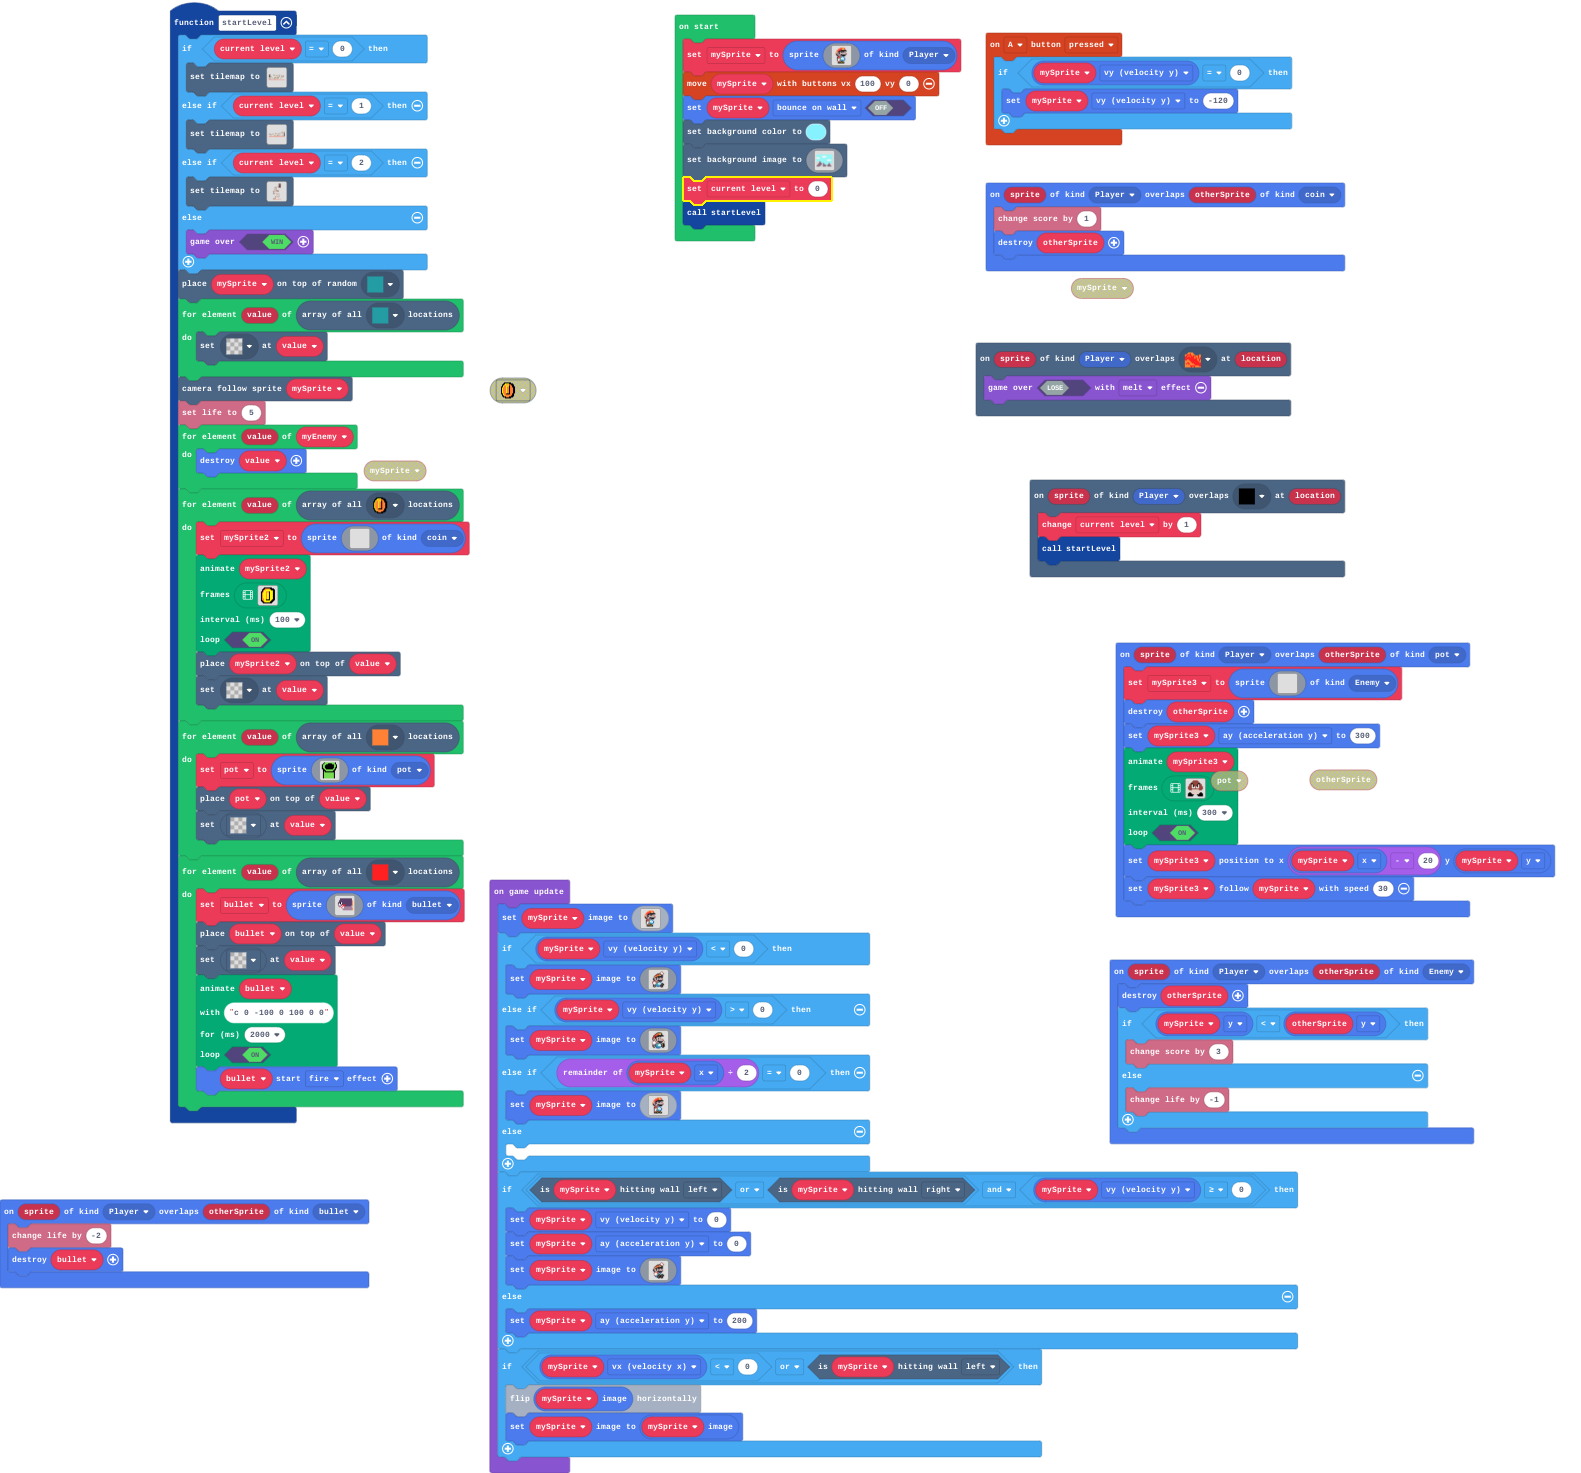
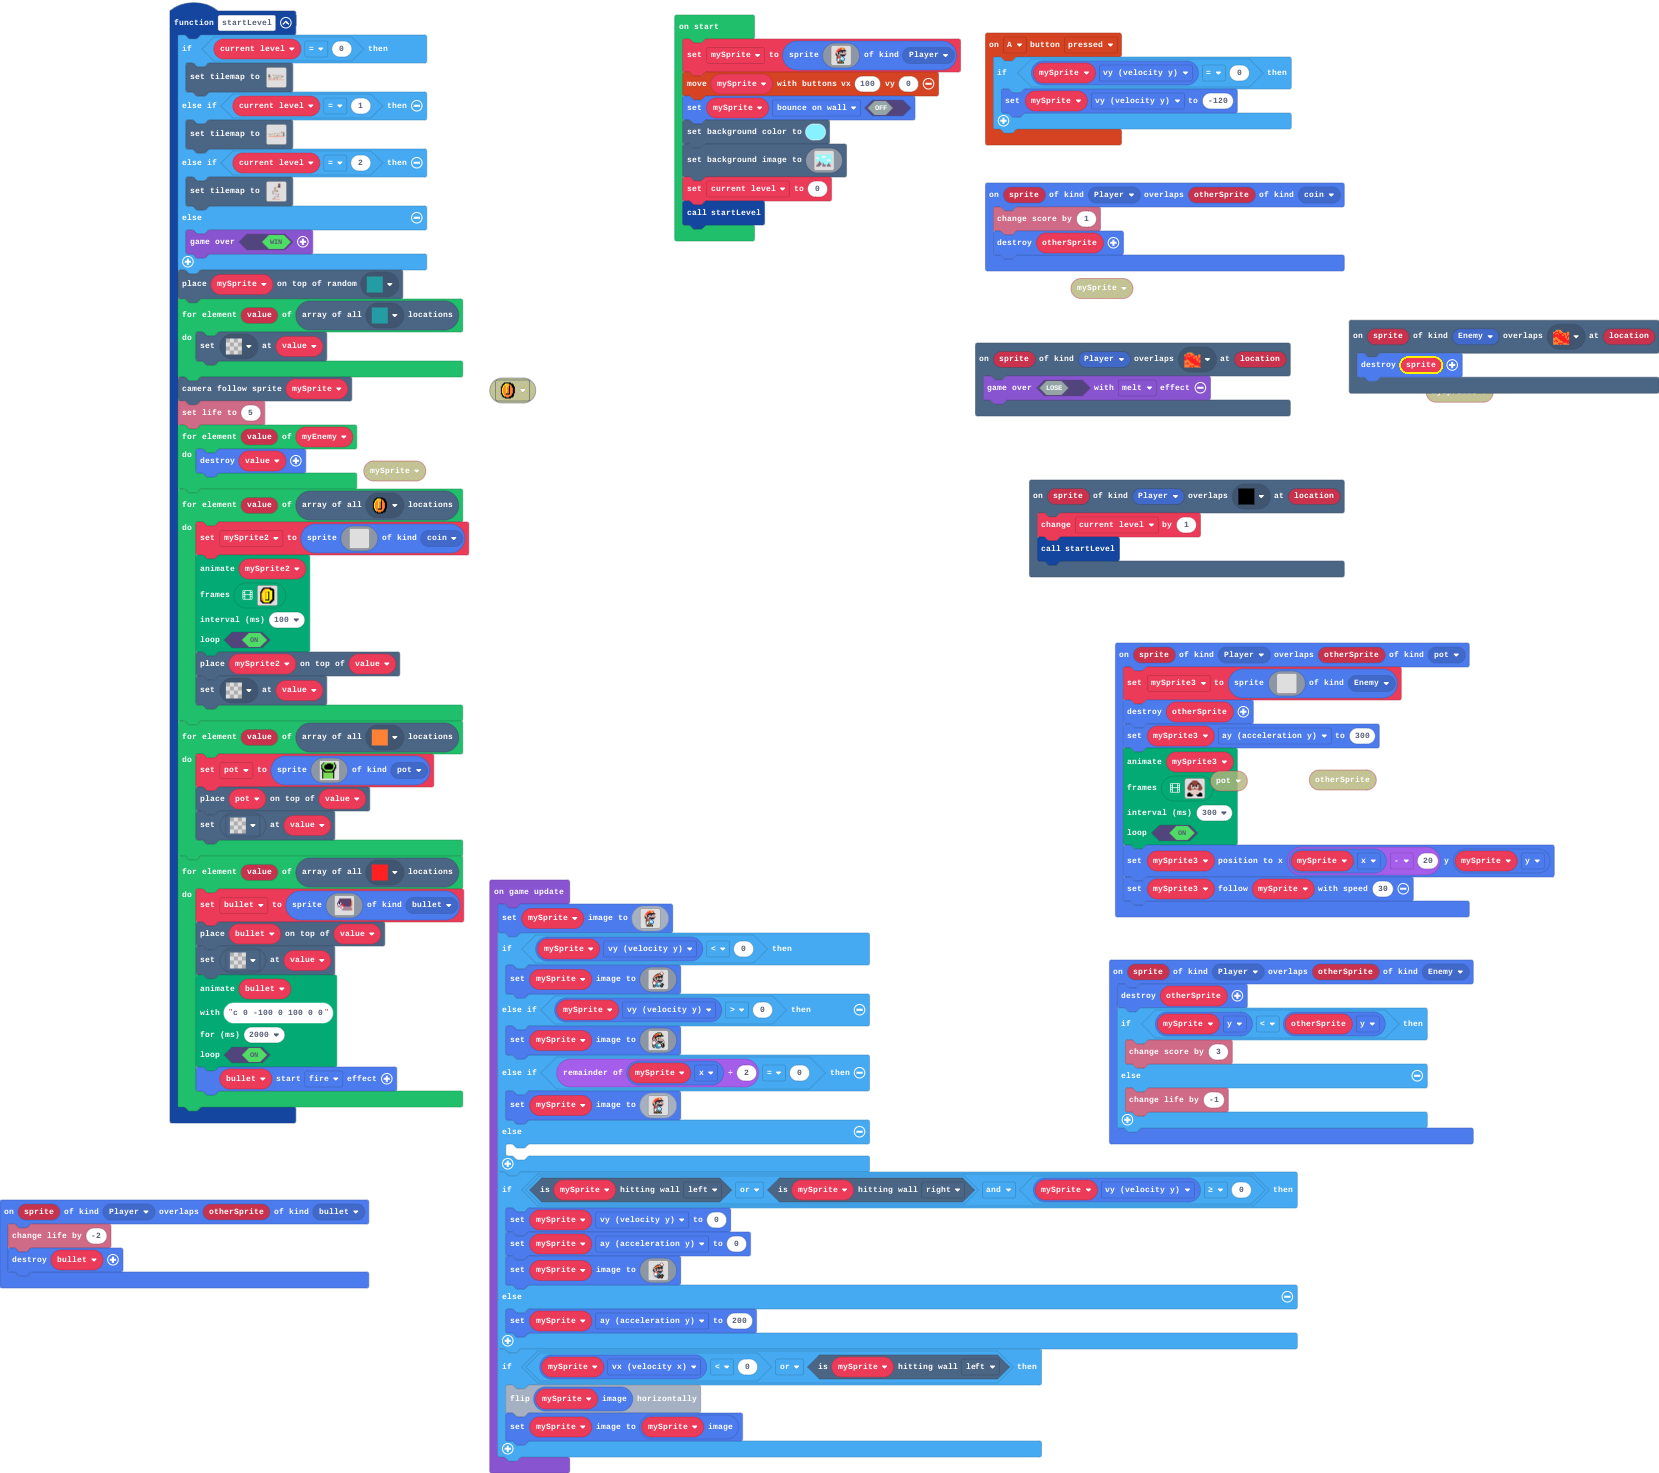
Update main.blocks, main.ts, tilemap.g.jres, tilemap.g.ts, images.g.jres, images.g.ts

diff --git a/tilemap.g.ts b/tilemap.g.ts
@@ -50,26 +50,6 @@ namespace myTiles {
 . . . . . . . . . . . . . . . . 
 . . . . . . . . . . . . . . . . 
 `, [myTiles.transparency16], TileScale.Sixteen);
-            case "level1":
[1 lines of base64/hex data omitted]
-22222.............................................
-22222.............................................
-22222........2222222.........222222...............
-22222.................22222...........2222........
-22222........................................22...
-2...........................................22....
-2...............................2.2........22.....
-2......................................2222222....
-22222222................2222222...................
-..................22222.......22..................
-................222...............................
-..........22.......................22.2...........
-........................222222....................
-2222222........222222.............................
-..................................................
-..................................................
-..................................................
-`, [myTiles.transparency16,myTiles.tile1,myTiles.tile2,myTiles.tile4,myTiles.tile5,myTiles.tile6,myTiles.tile7,myTiles.tile8,myTiles.tile10,myTiles.tile11,myTiles.tile12], TileScale.Sixteen);
             case "level3":
[1 lines of base64/hex data omitted]
 ..................................................
@@ -142,6 +122,26 @@ namespace myTiles {
 222222...................
 .........................
 `, [myTiles.transparency16,myTiles.tile1,myTiles.tile2,myTiles.tile4,myTiles.tile5,myTiles.tile6,myTiles.tile7,myTiles.tile8,myTiles.tile10,myTiles.tile11,myTiles.tile12,myTiles.tile13], TileScale.Sixteen);
+            case "level1":
[1 lines of base64/hex data omitted]
+22222.............................................
+22222.............................................
+22222........2222222.........222222...............
+22222.................22222...........2222........
+22222........................................22...
+2...........................................22....
+2...............................2.2........22.....
+2......................................2222222....
+22222222................2222222...................
+..................22222.......22..................
+................222...............................
+...................................22.2...........
+..........22............222222....................
+2222222........222222.............................
+..................................................
+..................................................
+..................................................
+`, [myTiles.transparency16,myTiles.tile1,myTiles.tile2,myTiles.tile4,myTiles.tile5,myTiles.tile6,myTiles.tile7,myTiles.tile8,myTiles.tile10,myTiles.tile11,myTiles.tile12], TileScale.Sixteen);
         }
         return null;
     })

diff --git a/images.g.ts b/images.g.ts
@@ -291,24 +291,6 @@ ccccccccccccccccccccccccccccccccccccc11dddddddddddddddddddddd1cccccccccccccccccc
[2 lines of base64/hex data omitted]
 `;
-            case "image1":return img`
-. . . . . . . . . . . . . . . . 
-. . . . . . . . . . . . . . . . 
-. . . . . . . . . . . . . . . . 
-. . . . . . . . . . . . . . . . 
-. . . . . . . . . . . . . . . . 
-. . . . . . . . . . . . . . . . 
-. . . . . . . . . . . . . . . . 
-. . . . . . . . . . . . . . . . 
-. . . . . . . . . . . . . . . . 
-. . . . . . . . . . . . . . . . 
-. . . . . . . . . . . . . . . . 
-. . . . . . . . . . . . . . . . 
-. . . . . . . . . . . . . . . . 
-. . . . . . . . . . . . . . . . 
-. . . . . . . . . . . . . . . . 
-. . . . . . . . . . . . . . . . 
-`;
             case "image3":return img`
 ............ee..
 ...........e11e.

diff --git a/main.ts b/main.ts
@@ -13,6 +13,9 @@ scene.onOverlapTile(SpriteKind.Player, assets.tile`myTile4`, function (sprite, l
     current_level += 1
     startLevel()
 })
+scene.onOverlapTile(SpriteKind.Enemy, assets.tile`myTile5`, function (sprite, location) {
+    sprite.destroy()
+})
 sprites.onOverlap(SpriteKind.Player, SpriteKind.pot, function (sprite, otherSprite) {
     mySprite3 = sprites.create(img`
         . . . . . . . . . . . . . . . . 
